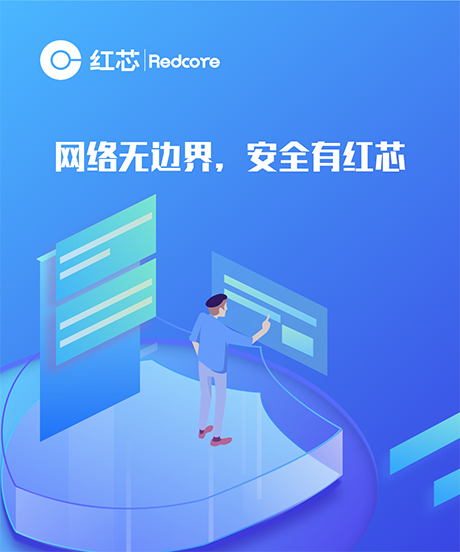
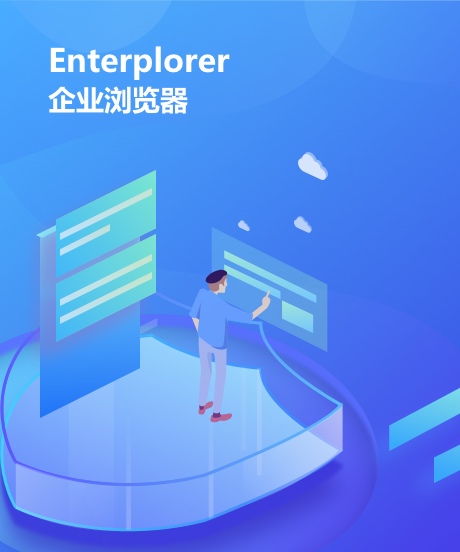
登录页图片修改成Enterplorer
默认修改为https://ysp.redcore.cn

diff --git a/chrome/browser/resources/redcore_ntp/login.js b/chrome/browser/resources/redcore_ntp/login.js
@@ -106,7 +106,7 @@ function switchPage(isLogin) {
         <div class="company_domain" id="company_domain">
           <h2 class="set_server">服务器地址</h2>
           <input id="domain" type="text" class="field field-block" 
-                 placeholder="https://pertest.redcore.cn" pattern="\S+" tip="" />
+                 placeholder="https://ysp.redcore.cn" pattern="\S+" tip="" />
           <p>忘记服务器地址？请联系您的企业管理员获取。</p>
           <button class="button block" id="next-btn" name="">确定</button>
         </div>
@@ -243,7 +243,7 @@ function Login() {
       }
     } else {
       // 正式地址
-      domain = 'https://pertest.redcore.cn'
+      domain = 'https://ysp.redcore.cn'
 
       // 测试地址
       //domain = 'http://api.enterplorer.net'
@@ -316,7 +316,7 @@ function Login() {
   // 点击二维码
   $('#QRcode').click(function() {
     $('#code_pack').css('visibility', 'hidden');
-    serverAddress = _this.domain.val() || 'api.redcore.cn';
+    serverAddress = _this.domain.val() || 'https://ysp.redcore.cn';
     // 建立长连接
     window.__page_to_content_script__(serverAddress, deviceId);
     $('#code_pack_qrcodeInvalid').hide();
